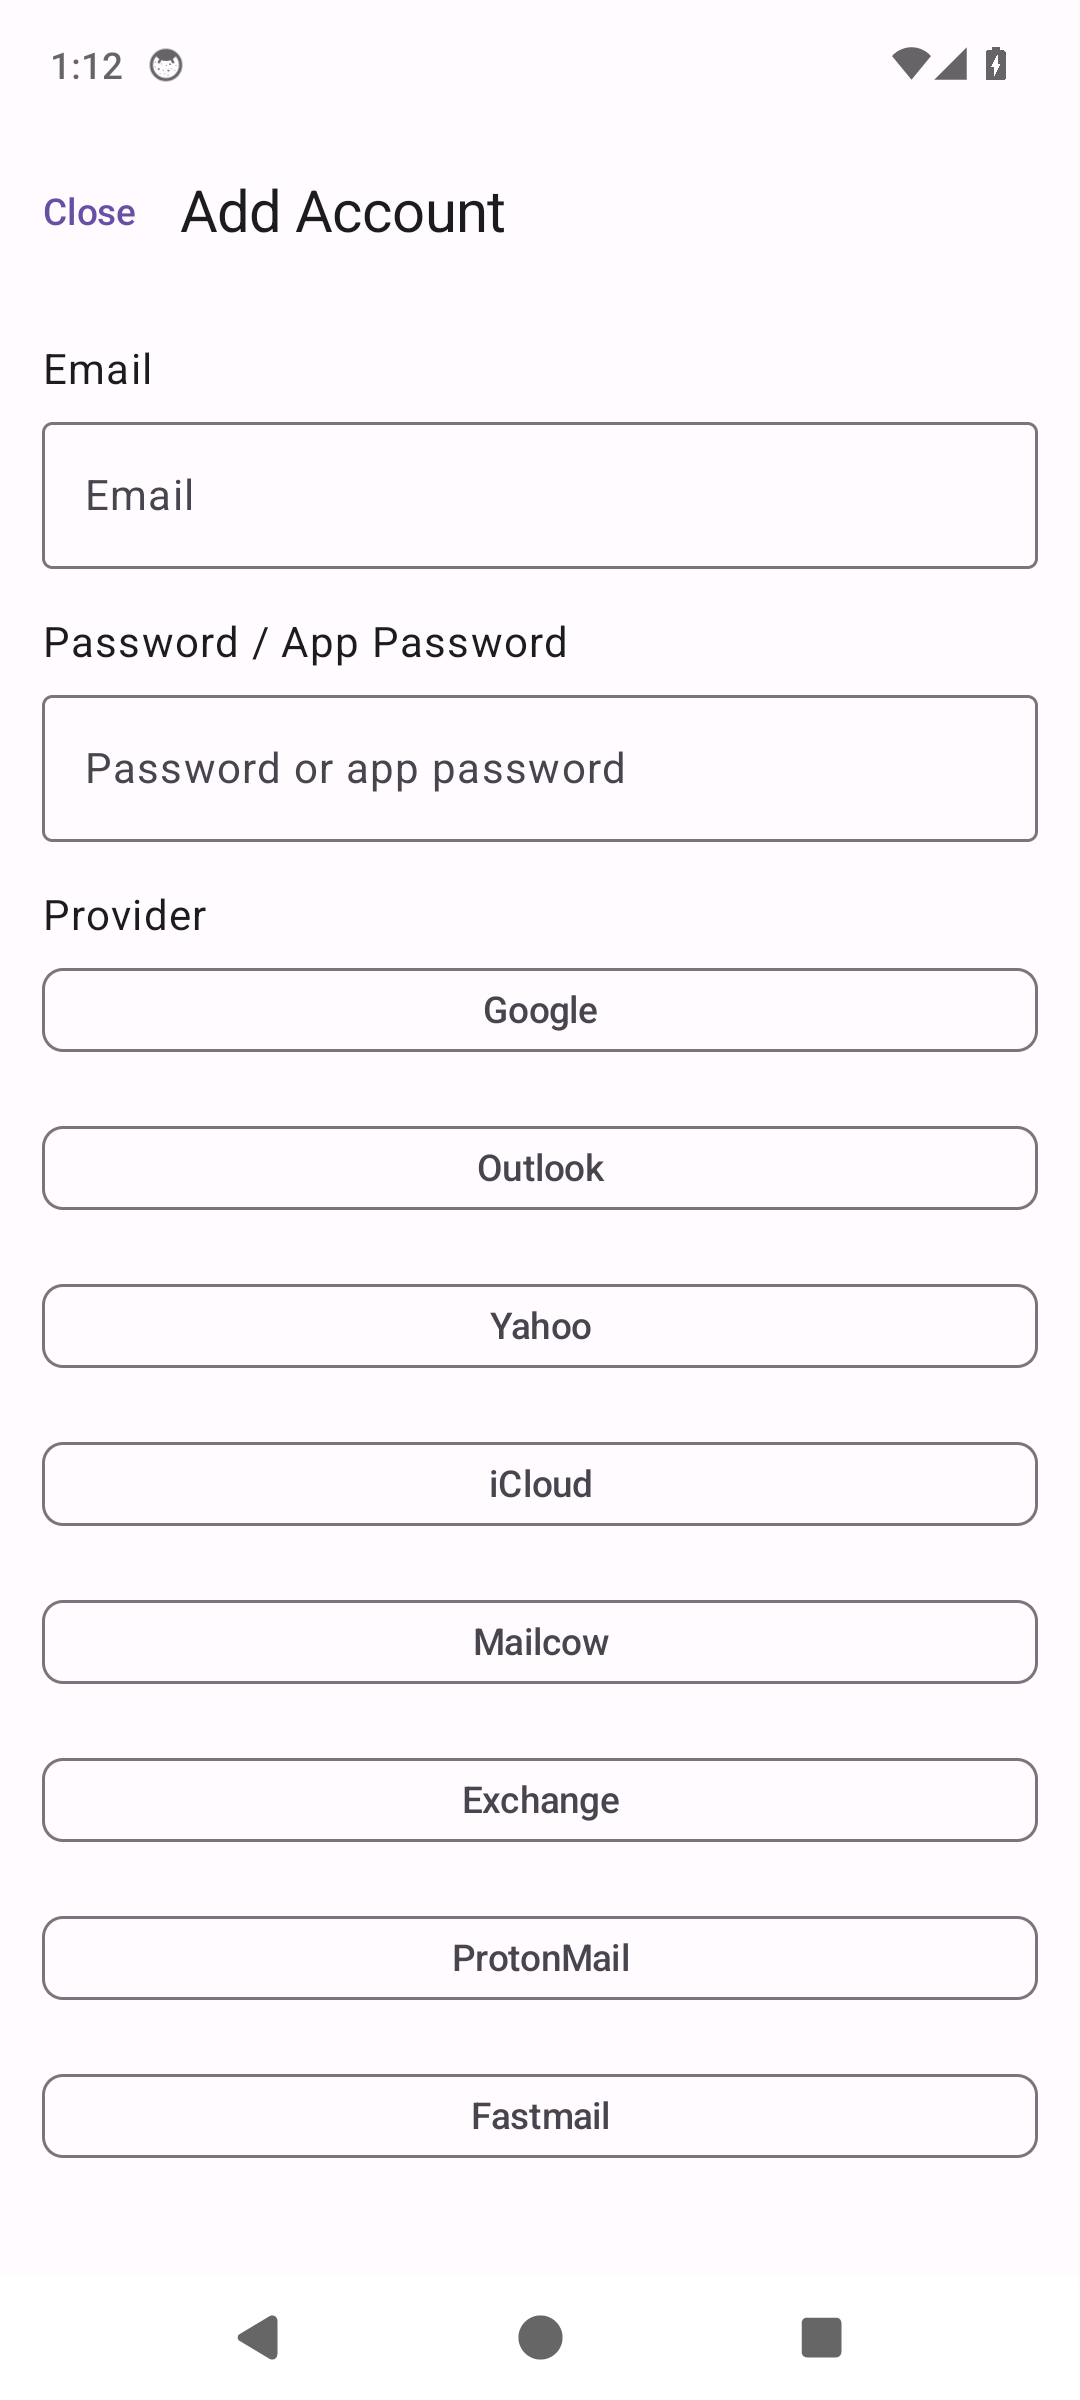
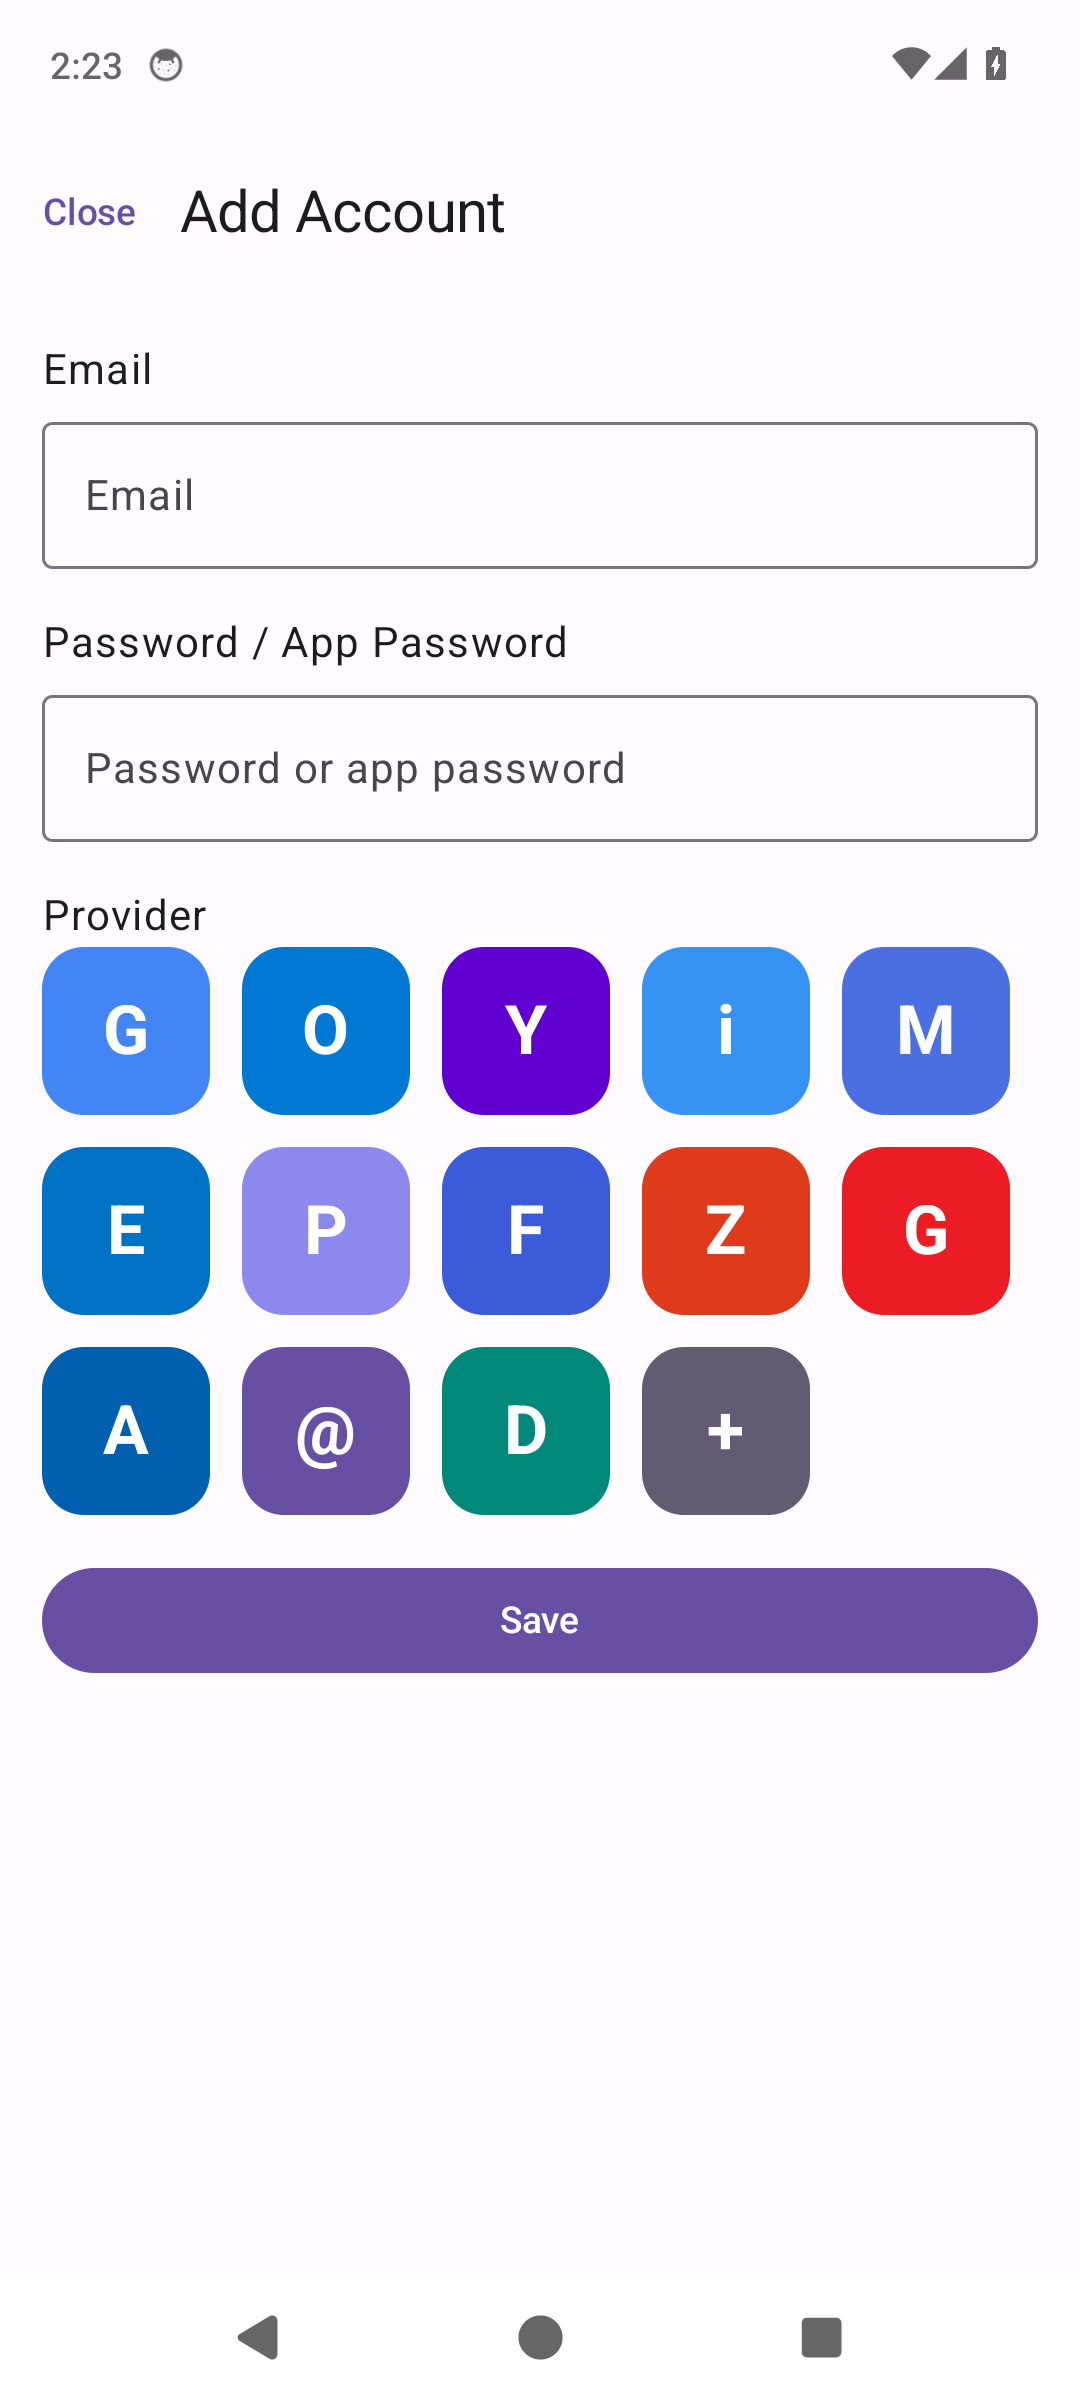
feat(AddAccount): replace provider text chips with brand-colored monogram tiles
- 64dp rounded-square tiles (RoundedCornerShape 16dp) showing each connector's
  monogram (G/O/Y/i/M/E/P/F/Z/A/@/D/+) on its brand color; selection via
  primary-color 3dp ring. F-Droid-friendly: no trademarked raster logos.
- Fix ScreenshotGalleryTest stale Add Account tap (221,786 -> 221,551) so the
  gallery re-shoot hits the real AddAccountScreen.
- Update docs/screenshots uc_08 add-account gallery shot (verified render).

Changed region(s): [[0.0306, 0.375, 0.9778, 0.7812], [0.4278, 0.875, 0.5806, 0.9062], [0.4278, 0.8125, 0.5806, 0.8438]]

diff --git a/app/src/main/java/com/unifiedcomms/ui/main/AddAccountScreen.kt b/app/src/main/java/com/unifiedcomms/ui/main/AddAccountScreen.kt
@@ -47,6 +47,9 @@ import androidx.compose.runtime.setValue
 import androidx.compose.ui.Alignment
 import androidx.compose.ui.Modifier
 import androidx.compose.ui.graphics.Color
+import androidx.compose.foundation.BorderStroke
+import androidx.compose.ui.semantics.contentDescription
+import androidx.compose.ui.semantics.semantics
 import androidx.compose.ui.text.font.FontWeight
 import androidx.compose.ui.text.input.ImeAction
 import androidx.compose.ui.text.input.KeyboardType
@@ -74,25 +77,54 @@ import kotlinx.coroutines.launch
 private data class Provider(
     val label: String,
     val type: AccountType,
-    val oauth: Boolean
+    val oauth: Boolean,
+    val monogram: String,
+    val color: Long
 )
 
+// Brand-colored monogram tiles (F-Droid-friendly: no trademarked raster logos).
+// To use real brand SVGs instead: add res/drawable/ic_provider_<x>.xml and swap the
+// ProviderTile Surface content for an Image(painter = painterResource(...)).
 private val PROVIDERS = listOf(
-    Provider("Google", AccountType.GOOGLE, true),
-    Provider("Outlook", AccountType.OUTLOOK, true),
-    Provider("Yahoo", AccountType.YAHOO, true),
-    Provider("iCloud", AccountType.ICLOUD, true),
-    Provider("Mailcow", AccountType.MAILCOW, false),
-    Provider("Exchange", AccountType.EXCHANGE, false),
-    Provider("ProtonMail", AccountType.PROTONMAIL, false),
-    Provider("Fastmail", AccountType.FASTMAIL, false),
-    Provider("Zoho", AccountType.ZOHO, false),
-    Provider("GMX", AccountType.GMX, false),
-    Provider("AOL", AccountType.AOL, false),
-    Provider("Generic IMAP/SMTP", AccountType.GENERIC_IMAP_SMTP, false),
-    Provider("Generic CalDAV/CardDAV", AccountType.GENERIC_CALDAV_CARDDAV, false),
-    Provider("Custom", AccountType.CUSTOM, false)
+    Provider("Google", AccountType.GOOGLE, true, "G", 0xFF4285F4),
+    Provider("Outlook", AccountType.OUTLOOK, true, "O", 0xFF0078D4),
+    Provider("Yahoo", AccountType.YAHOO, true, "Y", 0xFF6001D2),
+    Provider("iCloud", AccountType.ICLOUD, true, "i", 0xFF3693F3),
+    Provider("Mailcow", AccountType.MAILCOW, false, "M", 0xFF4A6FE3),
+    Provider("Exchange", AccountType.EXCHANGE, false, "E", 0xFF0072C6),
+    Provider("ProtonMail", AccountType.PROTONMAIL, false, "P", 0xFF8B89ED),
+    Provider("Fastmail", AccountType.FASTMAIL, false, "F", 0xFF3B5BDB),
+    Provider("Zoho", AccountType.ZOHO, false, "Z", 0xFFE03A1D),
+    Provider("GMX", AccountType.GMX, false, "G", 0xFFEC1C24),
+    Provider("AOL", AccountType.AOL, false, "A", 0xFF0060AF),
+    Provider("Generic IMAP/SMTP", AccountType.GENERIC_IMAP_SMTP, false, "@", 0xFF6750A4),
+    Provider("Generic CalDAV/CardDAV", AccountType.GENERIC_CALDAV_CARDDAV, false, "D", 0xFF00897B),
+    Provider("Custom", AccountType.CUSTOM, false, "+", 0xFF625B71)
 )
+
+@Composable
+private fun ProviderTile(
+    provider: Provider,
+    selected: Boolean,
+    onClick: () -> Unit
+) {
+    val bg = if (selected) MaterialTheme.colorScheme.primaryContainer else Color(provider.color)
+    val fg = if (selected) MaterialTheme.colorScheme.onPrimaryContainer else Color.White
+    Surface(
+        shape = RoundedCornerShape(16.dp),
+        color = bg,
+        border = if (selected) BorderStroke(3.dp, MaterialTheme.colorScheme.primary) else null,
+        tonalElevation = 2.dp,
+        modifier = Modifier
+            .size(64.dp)
+            .semantics { contentDescription = provider.label }
+            .clickable(onClick = onClick)
+    ) {
+        Box(contentAlignment = Alignment.Center, modifier = Modifier.fillMaxSize()) {
+            Text(text = provider.monogram, color = fg, fontWeight = FontWeight.Bold, fontSize = 26.sp)
+        }
+    }
+}
 
 @OptIn(ExperimentalFoundationApi::class, ExperimentalLayoutApi::class)
 @Composable
@@ -212,9 +244,9 @@ fun AddAccountScreen(
                     verticalArrangement = Arrangement.spacedBy(12.dp)
                 ) {
                     PROVIDERS.forEach { p ->
-                        val selected = selectedProvider == p
-                        androidx.compose.material3.FilterChip(
-                            selected = selected,
+                        ProviderTile(
+                            provider = p,
+                            selected = selectedProvider == p,
                             onClick = {
                                 selectedProvider = p
                                 if (p.oauth) {
@@ -223,16 +255,10 @@ fun AddAccountScreen(
                                         Intent(ctx, AddAccountActivity::class.java)
                                             .putExtra("accountType", p.type.name)
                                     )
-                                    return@FilterChip
+                                    return@ProviderTile
                                 }
                                 // manual/IMAP: autodiscover from the email (or reveal advanced)
                                 runDiscovery()
-                            },
-                            modifier = Modifier.defaultMinSize(minWidth = 112.dp),
-                            label = {
-                                Box(Modifier.fillMaxWidth(), contentAlignment = Alignment.Center) {
-                                    androidx.compose.material3.Text(p.label, textAlign = TextAlign.Center)
-                                }
                             }
                         )
                     }

diff --git a/app/src/androidTest/java/com/unifiedcomms/ScreenshotGalleryTest.kt b/app/src/androidTest/java/com/unifiedcomms/ScreenshotGalleryTest.kt
@@ -119,7 +119,7 @@ class ScreenshotGalleryTest {
         settings(); Thread.sleep(600); shot("07_settings")   // settings screen
         // Add Account is opened from Settings (top-bar Add button was removed to de-crowd
         // the title bar). Tap the "Add Account" TextButton at the bottom of the Accounts card.
-        tap(221, 786); Thread.sleep(700); shot("08_add_account")
+        tap(221, 551); Thread.sleep(700); shot("08_add_account")   // Add Account TextButton (verified bounds center 221,551)
         ui.pressBack(); Thread.sleep(500)                    // add-account -> settings
         ui.pressBack(); Thread.sleep(500)                    // settings -> inbox
     }